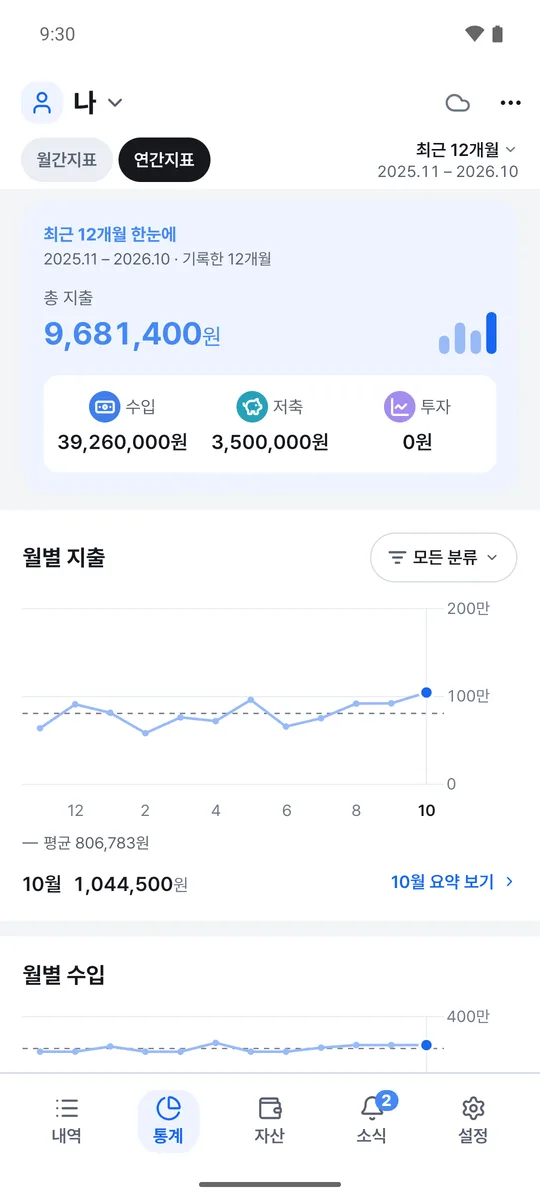
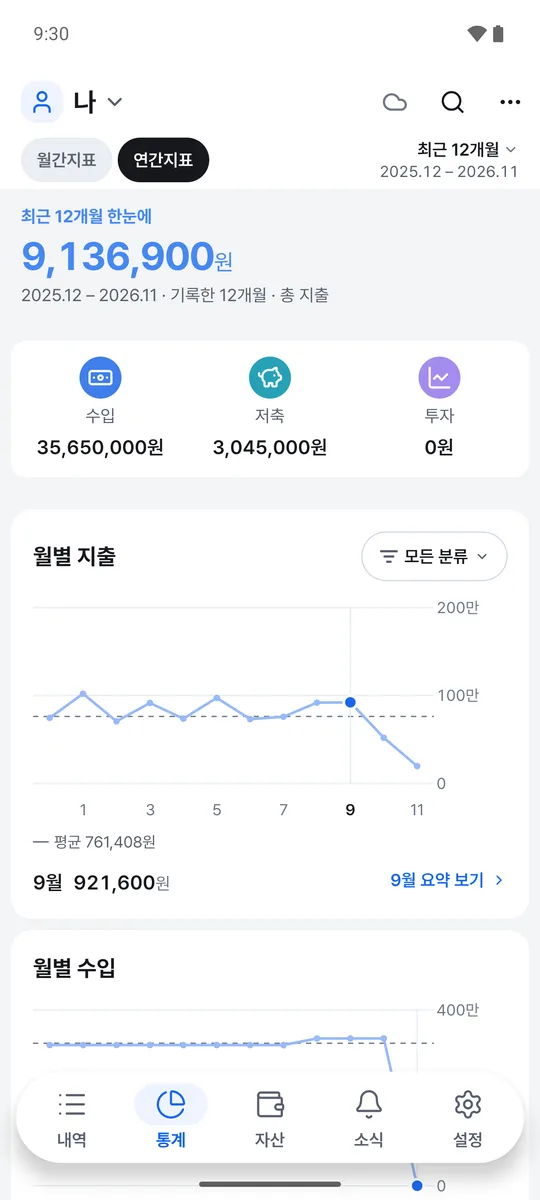
feat: 구독 관리 칸 · 1.2.0 화면으로 사진 다시 찍기
앱 1.2.0 의 새 화면(디자인 시스템 v1 · 떠 있는 아래 탭 · 둥근 카드)으로 홈의 사진을 다시 찍었다.
1440x3200 으로 찍어 폭 540 으로 줄인다 — 1080x2400 과 비율이 같아 폰 틀은 그대로다.

기능 묶음에 「구독 관리」 넓은 칸을 더했다(정기 항목 관리 · 구독 중인 서비스 두 장). 서비스 이름은
예시 데이터의 일반 이름(영상 구독 · 음악 구독)만 보인다 — 남의 상표를 홍보 사진에 싣지 않는다.
알림함 사진은 Expo Go 에서 못 찍어(개발 빌드 전용) 지난 캡처 그대로다.

Claude-Session: https://claude.ai/code/session_01B4XiApEPGepXyTySZbKnNK

diff --git a/src/components/home/Features.tsx b/src/components/home/Features.tsx
@@ -39,7 +39,7 @@ const SMALL = [
   },
 ];
 
-/** 기능 묶음 — 결제 알림함 · 자산, 작은 칸 셋, 화면(테마). 알림함과 화면은 한 줄을 다 쓴다 */
+/** 기능 묶음 — 결제 알림함 · 자산, 작은 칸 셋, 구독, 화면(테마). 알림함 · 구독 · 화면은 한 줄을 다 쓴다 */
 export function Features() {
   return (
     <section className="features" id={SECTIONS.features} aria-labelledby="features-title">
@@ -102,6 +102,28 @@ export function Features() {
             </article>
           ))}
 
+          <article className="tile tile-subs tile-wide reveal" data-tilt="3">
+            <div className="tile-text">
+              <p className="tile-label">구독 관리</p>
+              <h3>매달 · 매년 나가는 구독을 한곳에</h3>
+              <p className="soft">
+                구독을 정기 항목으로 적어 두면 결제일에 내 가계부에 저절로 적혀요. 일 년에 한 번
+                나가는 연 구독도 결제 달에 맞춰 적고, 구독 중인 서비스와 1년 합계를 한 화면에서
+                봐요. 가족 고정비에도 구독을 적을 수 있어요.
+              </p>
+            </div>
+            <div className="tile-shots">
+              <Phone
+                shot="subscriptions"
+                alt="정기 항목 관리 화면 예시. 매달 나가는 돈과 이번 달 남은 결제, 음악 구독 · 사진 보관함 같은 정기 항목이 보여요."
+              />
+              <Phone
+                shot="subscription-services"
+                alt="구독 중인 서비스 화면 예시. 구독 5개의 1년 합계가 있고, 월 구독과 연 구독이 나뉘어 있어요."
+              />
+            </div>
+          </article>
+
           <article className="tile tile-theme tile-wide reveal" data-tilt="3">
             <div className="tile-text">
               <p className="tile-label">화면</p>
@@ -112,7 +134,7 @@ export function Features() {
             <div className="tile-shots">
               <Phone
                 shot="glance-pink"
-                alt="핑크 강조색을 고른 월간지표 화면 예시. 10월 총 지출과 이 달 예산이 보여요."
+                alt="핑크 강조색을 고른 월간지표 화면 예시. 9월 총 지출과 이 달 예산이 보여요."
               />
               <Phone
                 shot="personal-spend-dark"

diff --git a/src/components/home/features.css b/src/components/home/features.css
@@ -1,5 +1,5 @@
 /*
-  기능 묶음 — 넓은 칸(알림함 · 화면) · 자산 · 작은 칸 셋의 격자다.
+  기능 묶음 — 넓은 칸(알림함 · 구독 · 화면) · 자산 · 작은 칸 셋의 격자다.
   칸은 띠의 땅(--bg-group) 위 흰 면이고, 칸 위에 마우스를 올리면 살짝 떠오른다.
 */
 .home .features {
@@ -97,6 +97,16 @@
     var(--surface);
 }
 
+.home .tile-subs {
+  background:
+    radial-gradient(
+      120% 90% at 0% 100%,
+      color-mix(in srgb, var(--aura-peach) 24%, transparent),
+      transparent 60%
+    ),
+    var(--surface);
+}
+
 /* 빛은 고른 강조색이다 — 견본을 누르면 이 칸이 그 색으로 물든다(--pick · AccentPicker) */
 .home .tile-theme {
   --glow: var(--pick, var(--accent-blue));
@@ -186,7 +196,8 @@
     grid-column: 1 / 3;
   }
 
-  /* 화면 칸은 한 줄을 다 써서 글 옆에 폰이 선다. 알림함은 폰이 둘이라 글 아래에 그대로 둔다 */
+  /* 구독 · 화면 칸은 한 줄을 다 써서 글 옆에 폰이 선다. 알림함은 폰이 둘이라 글 아래에 그대로 둔다 */
+  .home .tile-subs,
   .home .tile-theme {
     grid-template-columns: 1fr 1fr;
     align-items: start;

diff --git a/src/components/home/Ledgers.tsx b/src/components/home/Ledgers.tsx
@@ -22,7 +22,7 @@ const LEDGERS: Ledger[] = [
     points: [
       "월 예산과 남은 예산, 달력으로 보는 내역",
       "총 지출 · 수입 · 저축 · 투자를 한눈에 보는 통계",
-      "통장 · 카드 · 현금 자산, 매달 나가는 정기 항목",
+      "통장 · 카드 · 현금 자산, 매달 · 매년 나가는 정기 항목과 구독",
       "태그 · 날짜 메모 · 월급날에 맞춘 달 시작일",
     ],
     shots: [
@@ -50,7 +50,7 @@ const LEDGERS: Ledger[] = [
     shots: [
       {
         shot: "wizard-step",
-        alt: "가족 가계부 입력 화면 예시. 자동차 보험이 지난달보다 6,000원 늘어 이유 칸이 열려 있어요.",
+        alt: "가족 가계부 입력 화면 예시. 관리비가 지난달보다 6,000원 늘어 이유 칸이 열려 있어요.",
       },
       {
         shot: "family-summary",

diff --git a/src/components/Phone.tsx b/src/components/Phone.tsx
@@ -1,4 +1,4 @@
-/** `public/shots/` 의 캡처 — 1080x2400 원본을 폭 540 으로 줄인 것 (`scripts/shots.mjs`) */
+/** `public/shots/` 의 캡처 — 9:20 원본(1080x2400 · 1440x3200)을 폭 540 으로 줄인 것 (`scripts/shots.mjs`) */
 const SHOT = { width: 540, height: 1200 };
 
 /**
